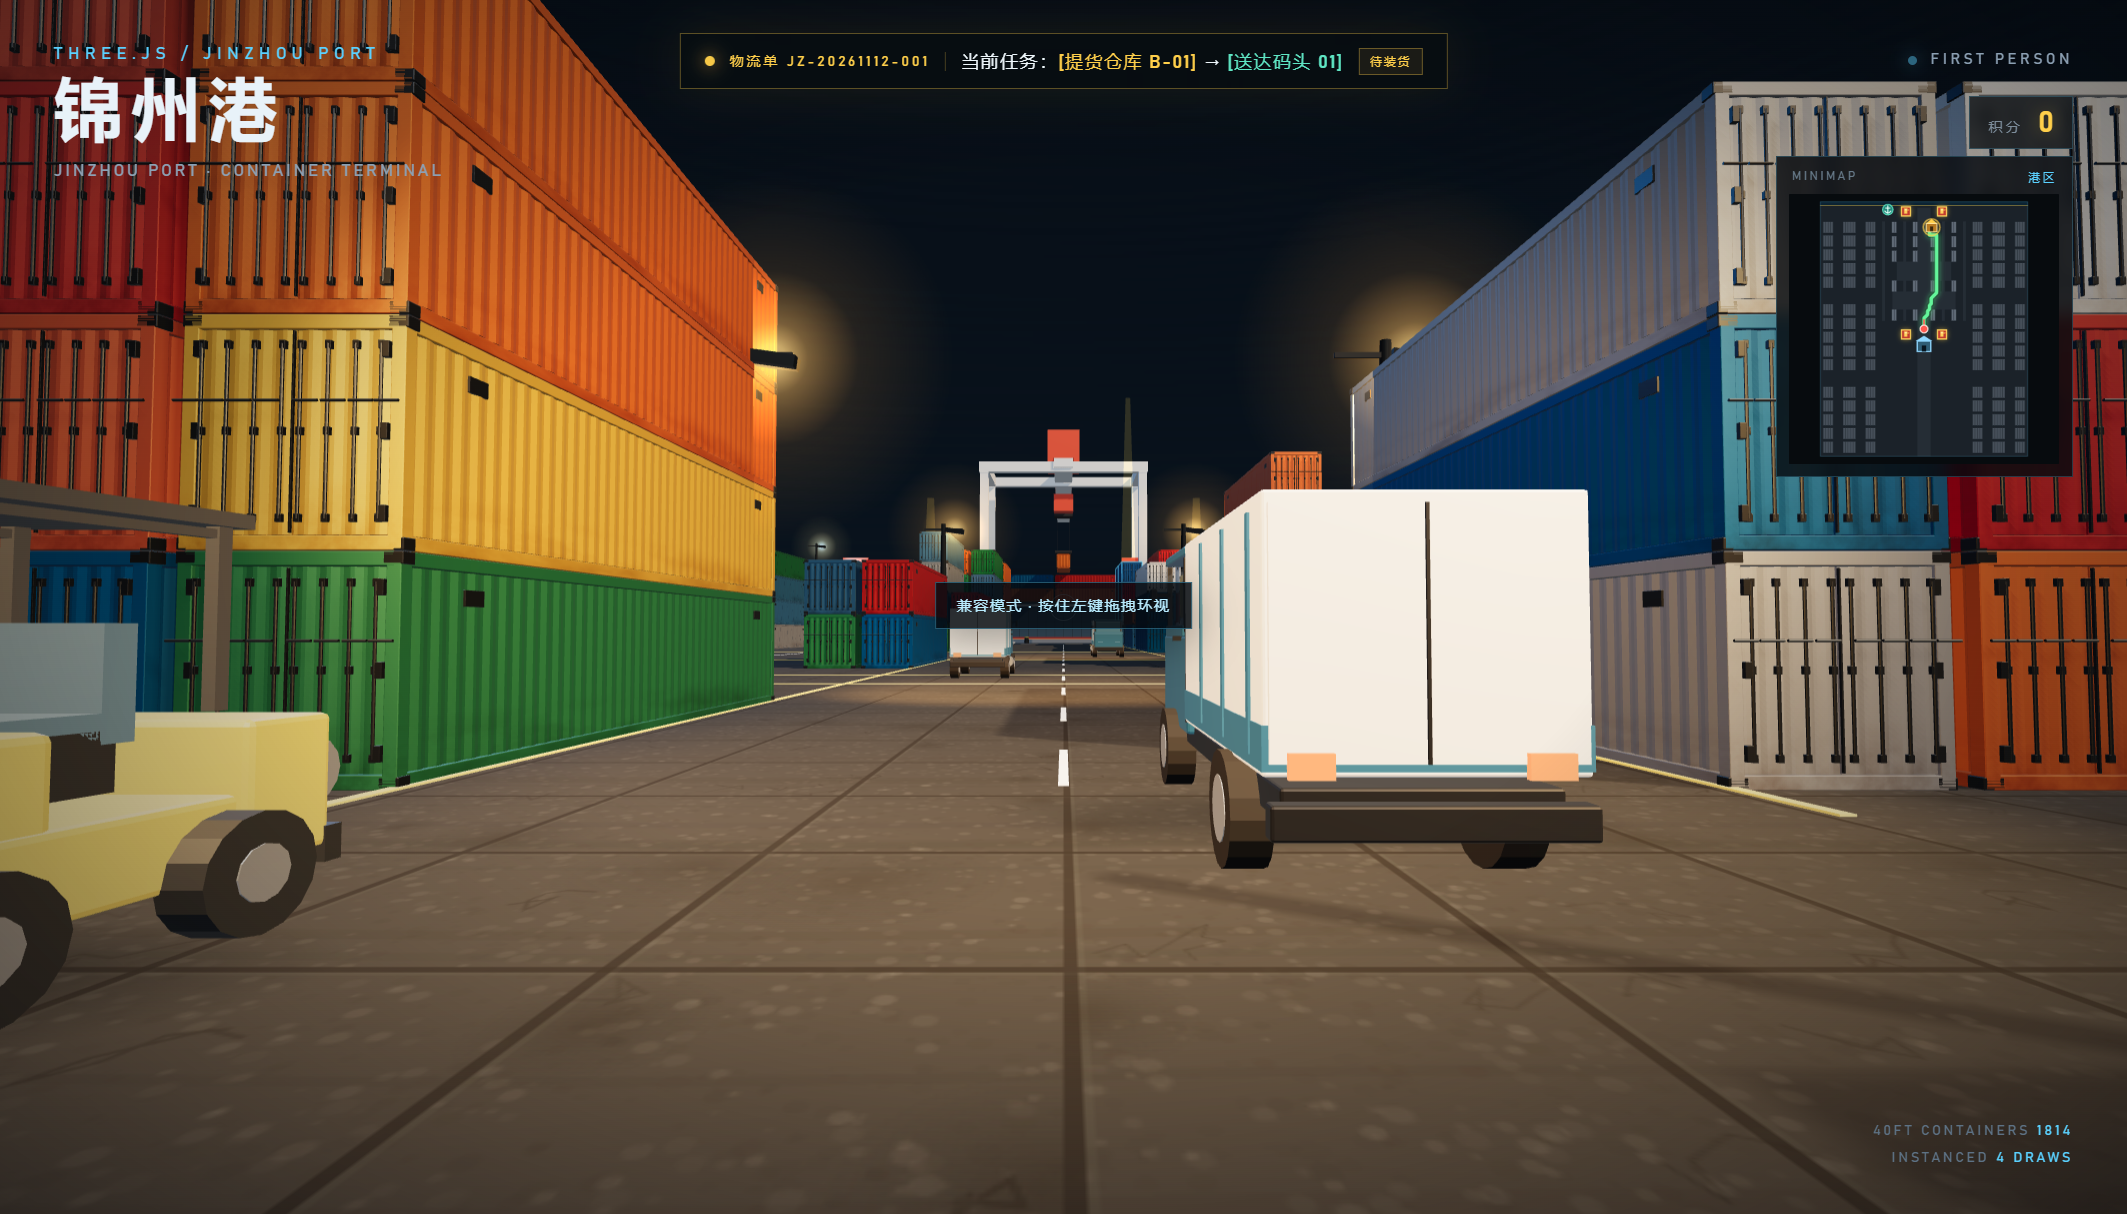
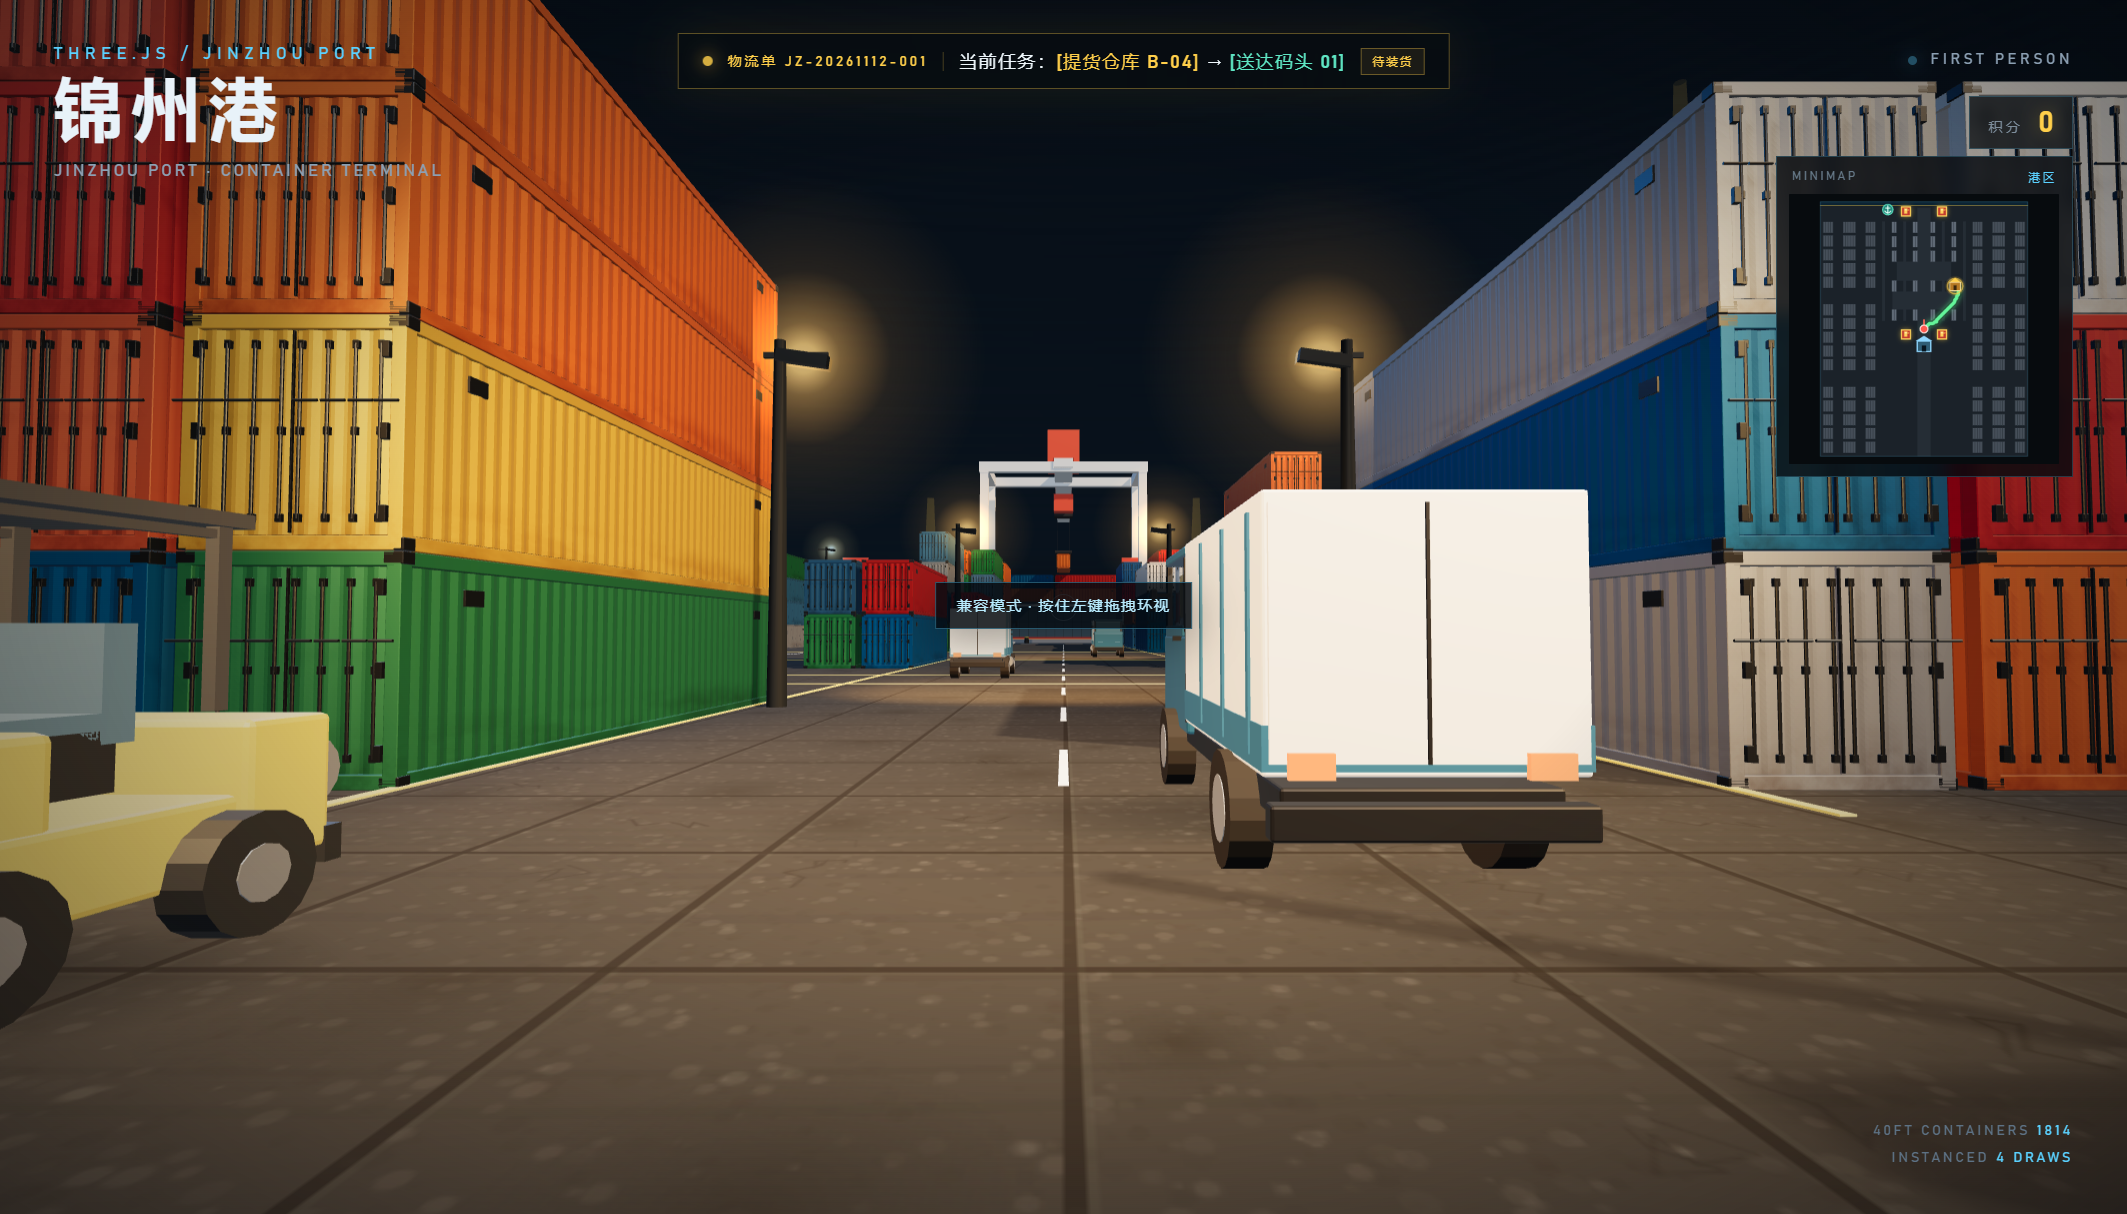
fix: move avenue floodlights out of container stacks
- the central avenue lamps were placed at x = ±7.5, inside the first container column (container face starts at x = 7.2) and within the z footprint of the row
- relocate them to x = ±6.6 on the road edge, shorten the crossarm and aim the head inward
- move quay floodlights from z = -55 to z = -60 to clear the last container row
- update preview-night.png

diff --git a/index.html b/index.html
@@ -2713,9 +2713,14 @@
     });
     const floodGlowTexture = makeFloodlightGlowTexture();
 
-    function addFloodlight(x, z, height, targetX, targetZ, color, intensity, glowColor) {
+    function addFloodlight(x, z, height, targetX, targetZ, color, intensity, glowColor, armDirection = 0) {
       const group = new THREE.Group();
       group.position.set(x, 0, z);
+
+      const compact = armDirection !== 0;
+      const armLength = compact ? 1.5 : 2.4;
+      const armCenter = compact ? armDirection * 0.38 : 0;
+      const headOffset = compact ? armDirection * 0.55 : 0.7;
 
       const pole = new THREE.Mesh(
         new THREE.CylinderGeometry(0.14, 0.24, height, 8),
@@ -2726,17 +2731,17 @@
       group.add(pole);
 
       const crossarm = new THREE.Mesh(
-        new THREE.BoxGeometry(2.4, 0.13, 0.13),
+        new THREE.BoxGeometry(armLength, 0.13, 0.13),
         floodPoleMat
       );
-      crossarm.position.y = height - 0.35;
+      crossarm.position.set(armCenter, height - 0.35, 0);
       group.add(crossarm);
 
       const head = new THREE.Mesh(
         new THREE.BoxGeometry(1.2, 0.28, 0.44),
         floodHeadMat
       );
-      head.position.set(0.7, height - 0.45, 0);
+      head.position.set(headOffset, height - 0.45, 0);
       head.rotation.z = -0.14;
       group.add(head);
 
@@ -2749,12 +2754,12 @@
         toneMapped: false,
         opacity: 0.8
       }));
-      glow.position.set(0.7, height - 0.42, 0);
+      glow.position.set(headOffset, height - 0.42, 0);
       glow.scale.setScalar(8.5);
       group.add(glow);
 
       const spot = new THREE.SpotLight(color, intensity, 72, 0.62, 0.58, 1.35);
-      spot.position.set(x + 0.7, height - 0.5, z);
+      spot.position.set(x + headOffset, height - 0.5, z);
       spot.target.position.set(targetX, 0, targetZ);
       spot.castShadow = false;
       scene.add(spot);
@@ -2767,12 +2772,12 @@
     addFloodlight(10.5, 64, 9.5, 0, 54, 0xffbf72, 230, 0xffd27c);
     addFloodlight(-13, 71, 12, 0, 76, 0xffae5c, 260, 0xffc46b);
     addFloodlight(13, 71, 12, 0, 76, 0xffae5c, 260, 0xffc46b);
-    addFloodlight(-34, -55, 14, -20, -68, 0xc7e7ff, 220, 0xd8f1ff);
-    addFloodlight(34, -55, 14, 20, -68, 0xc7e7ff, 220, 0xd8f1ff);
-    addFloodlight(-7.5, 44, 8.5, -1, 38, 0xffb45e, 170, 0xffce78);
-    addFloodlight(7.5, 44, 8.5, 1, 38, 0xffb45e, 170, 0xffce78);
-    addFloodlight(-7.5, 10, 8.5, -1, 4, 0xffb45e, 170, 0xffce78);
-    addFloodlight(7.5, 10, 8.5, 1, 4, 0xffb45e, 170, 0xffce78);
+    addFloodlight(-34, -60, 14, -20, -68, 0xc7e7ff, 220, 0xd8f1ff);
+    addFloodlight(34, -60, 14, 20, -68, 0xc7e7ff, 220, 0xd8f1ff);
+    addFloodlight(-6.6, 44, 8.5, -1, 38, 0xffb45e, 170, 0xffce78, 1);
+    addFloodlight(6.6, 44, 8.5, 1, 38, 0xffb45e, 170, 0xffce78, -1);
+    addFloodlight(-6.6, 10, 8.5, -1, 4, 0xffb45e, 170, 0xffce78, 1);
+    addFloodlight(6.6, 10, 8.5, 1, 4, 0xffb45e, 170, 0xffce78, -1);
 
     /* ------------------------------------------------------------------ */
     /*  Dock ground                                                        */
